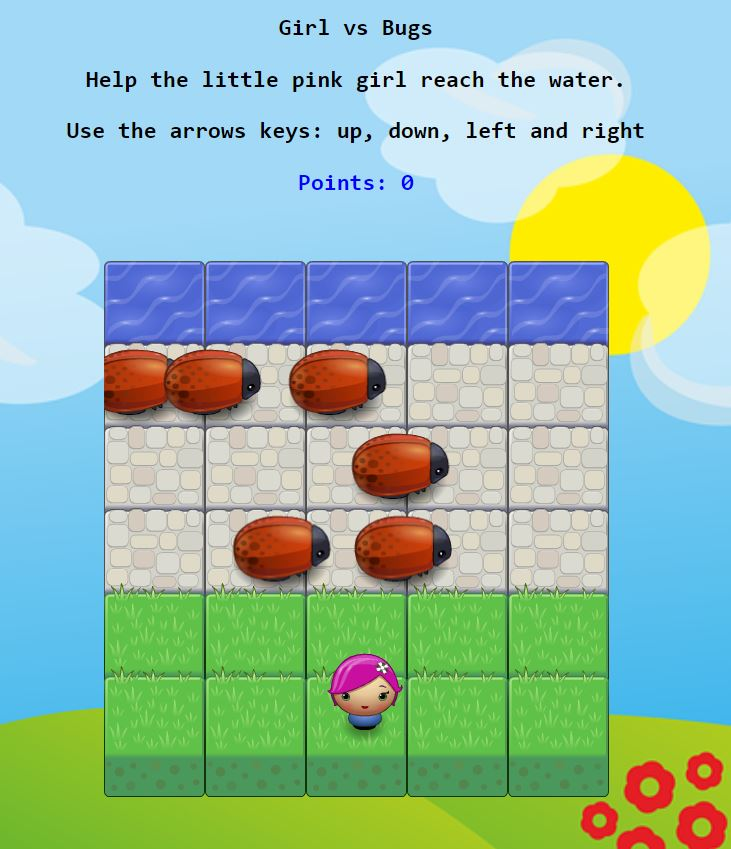
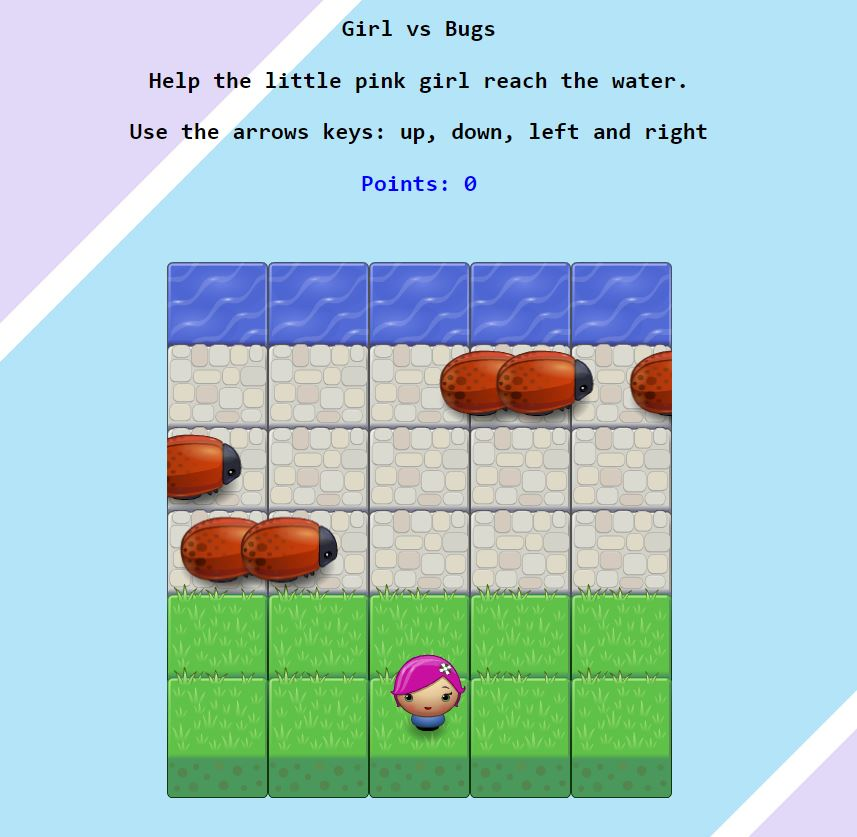
Change background image

diff --git a/css/style.css b/css/style.css
@@ -1,6 +1,6 @@
 body {
     text-align: center;
-    background-image: url('https://cdn.pixabay.com/photo/2014/05/23/17/11/the-background-352167_960_720.png');
+    background-image: url('../images/Arcade.jpg');
     background-repeat: no-repeat;
     background-size: cover;
 }

diff --git a/README.md b/README.md
@@ -6,7 +6,7 @@ For detailed instructions on how to get started, check out this [guide](https://
 
 ## Steps to Complete the Project
 
-* Download the [art assets and provided game engine)(https://github.com/udacity/frontend-nanodegree-arcade-game).
+* Download the [art assets and provided game engine](https://github.com/udacity/frontend-nanodegree-arcade-game).
 * Read the project instructions above.
 * Learn and review Object Oriented JavaScript & HTML5 Canvas.
 * Understand the [Project Rubric](https://review.udacity.com/?_ga=1.242571394.1230547285.1451946706#!/rubrics/15/view)
@@ -32,7 +32,7 @@ For detailed instructions on how to get started, check out this [guide](https://
 * Player has only 3 lives and loses one after a collision.
 * When the player reaches the water, it earns 500 points and goes back to the bottom to cross again.
 
-![Screenshot]()
+![Screenshot](https://github.com/888Red/Game---Arcade/blob/master/images/screenshot.jpg)
 
 ## Demo
 
